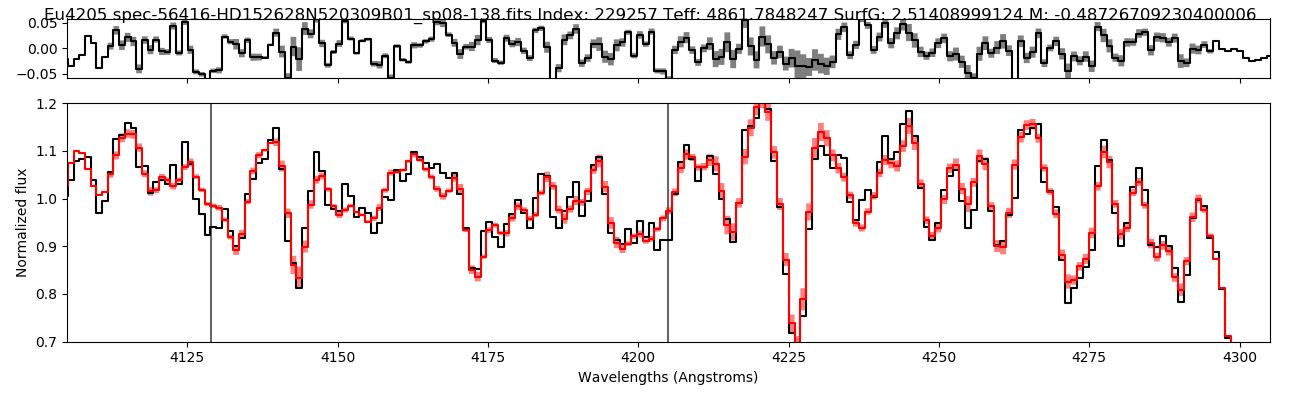
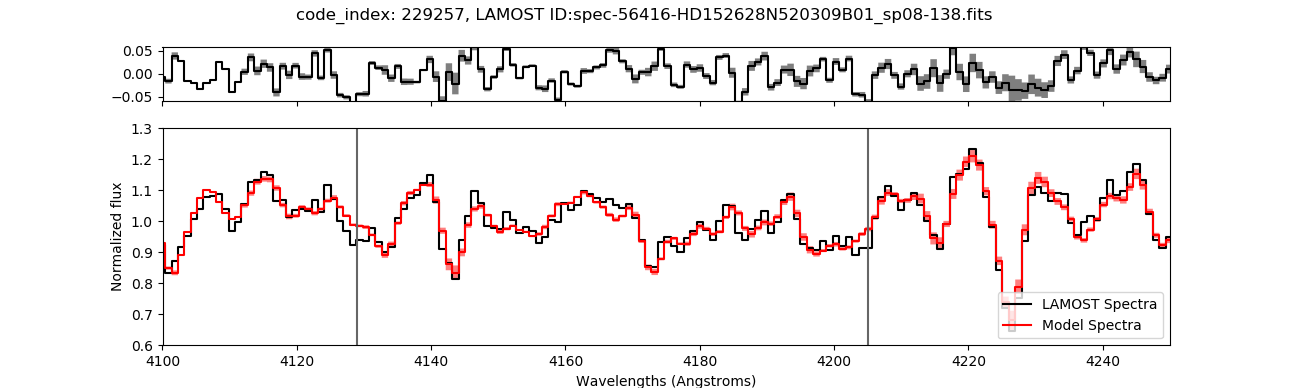
author comments WOO

diff --git a/article/ms.tex b/article/ms.tex
@@ -78,24 +78,24 @@
 	\section{Introduction}
 	
 	Heavy elements ($Z > 30$) are synthesised through the slow (s) and rapid (r) neutron capture processes \citep[e.g.,][]{Burbidge1957,Sneden2008}.
-	Rapid neutron capture occurs when the neutron density is high enough such that the rate of neutron capture will occur faster than the rate at which an isotope undergoes a $\beta$-decay. Extremely high neutron densities ($>$$10^{24}\ \rm{free\ neutrons\ per\ cm}^{3}$) are necessary for the r-process to occur \citep[e.g.,][]{Burbidge1957,Sneden2008}. Sites meeting this criteria include core-collapse supernovae, neutron-star mergers, or magnetorotationally driven supernovae. Core-collapse supernovae are believed to be relatively common throughout the history of the Milky Way, but they only produce small amounts of r-process material. Neutron-star mergers or magnetorotationally driven supernovae, however, occur much less frequently than core-collapse supernovae, but produce far more r-process material. Events such as these are theorised to account for the case of the highly r-process enhanced stars in the ultra-faint dwarf (UFD) galaxy Reticulum II \citep{Ji2016}.
-	Magnetorotationally driven supernovae may not produce as much r-process material as neutron-star mergers (although still more than core-collapse supernovae), are thought to occur more frequently than neutron-star mergers \citep[e.g.,][]{Li2011, LIGO2016}, but the predicted abundance patterns make them observationally indistinguishable from neutron-star mergers \citep{Ji2016}.
+	Rapid neutron capture occurs when the neutron density is high enough such that the rate of neutron capture will occur faster than the rate at which an isotope undergoes a $\beta$-decay. Extremely high neutron densities ($>$$10^{24}\ \rm{free\ neutrons\ per\ cm}^{3}$) are necessary for the r-process to occur. Sites meeting this criteria include core-collapse supernovae (especially those that are magnetorotationally driven), neutron-star mergers. Core-collapse supernovae are believed to be relatively common throughout the history of the Milky Way, but they only produce small amounts of r-process material. Neutron-star mergers or magnetorotationally driven supernovae, however, occur much less frequently than ordinary core-collapse supernovae, but produce far more r-process material. Events such as these are theorised to account for the case of the highly r-process enhanced stars in the ultra-faint dwarf (UFD) galaxy Reticulum II \citep{Ji2016}.
+	Magnetorotationally driven supernovae may not produce as much r-process material as neutron-star mergers (although still more than ordinary core-collapse supernovae), but are thought to occur more frequently than neutron-star mergers \citep[e.g.,][]{Li2011, LIGO2016}, and the predicted abundance patterns make them observationally indistinguishable from neutron-star mergers \citep{Ji2016}.
 	
-	Europium ($Z=63$) is entirely produced through the r-process. This makes it a very useful signature for identifying stars that show evidence of significant contribution by r-process material. Using europium as a tracer, \cite{Ji2016} found that the level of r-process enrichment in  Reticulum II was too high to have occurred through a core-collapse supernovae event.
-	Historically, UFD galaxies have demonstrated some of the lowest abundance ratios of r-process elements seen in the Milky Way or its satellite systems. However, the analysis of several of Reticulum II's stars show they are greatly enriched, 2-3 orders of magnitude higher than stars found in any other UFD galaxy \citep{Ji2016}. This degree of enrichment supports the theory that a single rare event must have occurred early on in the formation history of Reticulum II. This is supported by the observed heavy element yields, which are found to be some 1000 times higher than what is achievable on average from core-collapse supernovae ejecta. It is highly improbable that 1000 supernovae could have contributed to Reticulum II, suggesting that the r-process material must be produced by a rarer astrophysical event such as a binary neutron-star merger.
+	Europium ($Z=63$) is almost entirely produced through the r-process. This makes it a very useful signature for identifying stars that show evidence of a significant contribution from r-process material. Using europium as a tracer, \cite{Ji2016} found that the level of r-process enrichment in  Reticulum II was too high to have occurred through a single core-collapse supernovae event.
+	Historically, UFD galaxies have demonstrated some of the lowest abundance ratios of r-process elements with respect to Fe seen in the Milky Way or its satellite systems. However, the analysis of several of Reticulum II's stars show they are greatly enriched in r-process elements, 2-3 orders of magnitude higher than stars found in any other UFD galaxy \citep{Ji2016}. This degree of enrichment supports the theory that a single rare event must have occurred early on in the formation history of Reticulum II. This is supported by the observed heavy element yields, which are found to be some 1000 times higher than what is achievable on average from core-collapse supernovae ejecta. It is highly improbable that 1000 supernovae could have contributed to Reticulum II, suggesting that the r-process material must be produced by a rarer astrophysical event such as a binary neutron-star merger.
 	
-	While neutron-star mergers or magnetorotationally driven supernovae are likely to produce significant amounts of r-process material, it does not suggest that all r-process material stems from these sources either. Rather, the rarity of these events might imply that they are also responsible for the rare numbers of stars  observed to have significant enhancements in r-process material. One could ask if neutron-star mergers could be responsible for all r-process stars known in the Milky Way? On the other hand, if we assume very little gas mixing, could core-collapse supernovae create enough material to explain a single r-process star? If neither of these prove to be true then we can confirm that there must be multiple sties to the r-process, providing a step forward in understanding the relative fraction of these mechanisms in the Milky Way.
+	While neutron-star mergers or magnetorotationally driven supernovae are likely to produce significant amounts of r-process material, it does not suggest that all r-process material stems from these sources either. Rather, the rarity of these events might imply that they are also responsible for the rare numbers of stars  observed to have significant enhancements in r-process material. One could ask if neutron-star mergers could be responsible for all r-process stars known in the Milky Way? On the other hand, if we assume very little gas mixing, could core-collapse supernovae create enough material to explain a single r-process enriched star? If neither of these prove to be true then we can confirm that there must be multiple sites to the r-process, providing a step forward in understanding the relative fraction of these mechanisms in the Milky Way.
 	
 	In order to answer these questions it is necessary to identify a large sample of r-process stars.
-	However, r-process stars are very rare. For this reason we must look to massive data sets, such as the LAMOST sky survey. In this letter we report the discovery of 47 r-process enhanced stars identified from LAMOST, significantly building upon the previously known Milky Way sample of 14 \citep[e.g.,][]{masho2011,Honda2004,Hayek2009,Sneden2003,Ivans2006,Hill2002,Christlieb2004,Wako2010,placo2017}.
-	In Section 2 we outline the methods used to identify r-process enhanced candidates, and our analysis methods. In Section 3 we discuss what our results imply about the sites of r-process. We provide concluding remarks in Section 4.
+	However, r-process stars are very rare. For this reason we must look to massive data sets, such as the LAMOST sky survey. In this letter we report the discovery of 47 r-process enhanced stars identified from LAMOST, significantly building upon the previously known Milky Way sample of 26 \citep[e.g.,][]{masho2011,Honda2004,Hayek2009,Sneden2003,Ivans2006,Hill2002,Christlieb2004,Wako2010,placo2017,Sakari2018}.
+	In Section 2 we outline the methods used to identify r-process enhanced candidates, and our analysis methods. In Section 3 we discuss what our results imply about the sites of the r-process. We provide concluding remarks in Section 4.
 	
 	
-	\begin{figure}
-		\includegraphics[width=\columnwidth]{229257}
+	\begin{figure*}
+		\includegraphics[width=\textwidth]{229257}
 		\caption{The spectral region around two Europium absorption lines at 4129 and 4205 Angstroms. This particular star's spectra (black) shows clear absorption at these wavelengths, as compared to the data-driven model (red).}
 		\label{fig:starindex_229257}
-	\end{figure}
+	\end{figure*}
 	
 	\begin{figure}
 		\includegraphics[width=\columnwidth]{metalhistpython}
@@ -107,50 +107,50 @@
 	
 	\subsection{Observations and Candidate Selection}
 	
-	The LAMOST survey is a low resolution optical spectroscopic survey ($R\approx1800$; 3650-9000\,\AA). The second data release from LAMOST \citep{lamost} contains about 2.2 million stellar spectra in the northern sky. Of these 2.2 million, 454,180 were identified as giant stars through a data-driven analysis known as \textit{The Cannon}. An overlap sample of 9,952 giant stars common to LAMOST and the higher-resolution ($R\approx22500$) APOGEE survey \citep{apogee} were used as a training set.
-	The stellar labels included in \textit{The Cannon} model are stellar effective temperature $T_{\rm{eff}}$, surface gravity $\log{g}$, overall metallicity $\rm{[Fe/H]}$, and average relative abundance of elements produced via $\alpha$-particle capture $\rm{[\alpha/Fe]}$. For reference, typical uncertainties for these labels are about $70\,\rm{K}$ for $T_{\rm{eff}}$, $0.1$ in $\log{g}$, 0.1\,dex in $\rm{[Fe/H]}$, and 0.04\,dex in $\rm{[\alpha/Fe]}$.
+	The LAMOST survey is a low resolution optical spectroscopic survey ($R\approx1800$; 3650-9000\,\AA). The second data release from LAMOST \citep{lamost} contains about 2.2 million stellar spectra in the northern sky. Of these 2.2 million, 454,180 were identified as giant stars through a data-driven analysis known as \textit{The Cannon} \citep{AnnaHo2017}. An overlap sample of 9,952 giant stars common to LAMOST and the higher-resolution ($R\approx22500$) APOGEE survey \citep{apogee} were used as a training set.
+	The stellar labels included in \textit{The Cannon} model are stellar effective temperature $T_{\rm{eff}}$, surface gravity $\log{g}$, overall metallicity $\rm{[Fe/H]}$, average relative abundance of elements produced via $\alpha$-particle capture $\rm{[\alpha/Fe]}$, and K-band extinction $\rm{A_{k}}$. For reference, typical uncertainties for these labels are about $70\,\rm{K}$ for $T_{\rm{eff}}$, $0.1$ in $\log{g}$, 0.1\, in $\rm{[Fe/H]}$, and 0.04\, in $\rm{[\alpha/Fe]}$.
 	
-	We identified candidate r-process enhanced stars by searching for deviations surrounding between the pseudo-continuum-normalised flux and the best-fitting data-driven model spectrum. Specifically, we looked for deviations at the 4129\,\AA\ and 4205\,\AA\ europium absorption lines. At each transition we fitted a Gaussian profile to the flux residuals for all 454,180 giant stars. We recorded the amplitude, wavelength, and width of each profile, as well as the corresponding uncertainties on these quantities. 
+	We identified candidate r-process enhanced stars by searching for deviations between the pseudo-continuum-normalised flux and the best-fitting data-driven model spectrum. Specifically, we looked for deviations at the 4129\,\AA\ and 4205\,\AA\ europium absorption lines. At each transition we fitted a Gaussian profile to the flux residuals for all 454,180 giant stars. We recorded the amplitude, wavelength, and width of each profile, as well as the corresponding uncertainties on these quantities. 
 	Candidate r-process stars were identified as stars that met the following criteria:
 	
 	\begin{itemize}
-		\item The amplitude of the fitted gaussian profile must be less than ${A<-0.05}$;
+		\item The amplitude $\rm{A}$ of the fitted gaussian profile must be ${A<-0.05}$;
 		\item The signal to noise (S/N) must be greater than 30;
 		\item The deviation from the required wavelength in question must be less than 2\,\AA;
-		\item The reduced $\chi^{2}$ value must be less than 3, $\chi_r^{2}<3$.
+		\item The reduced $\chi_r^{2}$ value must be less than 3, $\chi_r^{2}<3$.
 		\item All of these conditions must be met for both 4129\,\AA\ and 4205\,\AA\ for us to consider them sufficiently Eu enhanced.
 	\end{itemize}   
 	
-	These filters produced an initial sample of 62 candidates from the total sample of 454,180. An example candidate is shown in Figure \ref{fig:starindex_423451}. We visually scrutinised each candidate to remove false positives, typically due to data reduction artefacts. After this process we were left with 47 likely r-process enhanced candidates, 22 of which stand out as very strong candidates.
+	These filters produced an initial sample of 62 candidates from the total sample of 454,180. An example candidate is shown in Figure \ref{fig:starindex_229257}. We visually scrutinised each candidate to remove false positives, typically due to data reduction artefacts. After this process we were left with 47 likely r-process enhanced candidates, 22 of which stand out as very strong candidates. In addition to this we searched these stars for enhancements of a similar degree in the s-process created elements Strontium and Barium and found none. 
 	
 	\section{Identifying the r-process}
 	
 	\subsection{Selection effects}
-	The LAMOST giants we analyse belong to a broad range of metallicity ($-1.6 < \rm{[Fe/H]} < 0.6$), and don't cluster in any part of the sky, suggesting they do not belong to a single stellar system. The lowest metallicity among the 454,180 giant stars in our sample is $[{\rm Fe/H}] \approx -2.1$. The previous sample of known r-process stars, before this work, exclusively consists of very metal-poor stars with $[{\rm Fe/H}] < -2$ \citep{Barklem2005}. This fact is not to be confused with saying that most r-process stars found should be metal-poor stars, rather that at extremely low metallicities of $[{\rm Fe/H}] \lesssim -2.6$ \citep{Simmerer2004} there is a negligible contribution from the s-process
+	The LAMOST giants we analyse belong to a broad range of metallicity ($-1.6 < \rm{[Fe/H]} < 0.6$), and don't cluster in any part of the sky, suggesting they do not belong to a single stellar system. The lowest metallicity among the 454,180 giant stars in our sample is $[{\rm Fe/H}] \approx -2.1$. The previous sample of known r-process stars, before this work, exclusively consists of very metal-poor stars with $[{\rm Fe/H}] < -1.5$ \citep{Barklem2005}. This fact is not to be confused with saying that most r-process stars found should be metal-poor stars, rather that at extremely low metallicities of $[{\rm Fe/H}] \lesssim -2.6$ \citep{Simmerer2004} there is a negligible contribution from the s-process
 	and all neutron-capture elements must be formed from the r-process. In other words, the primary reason why all r-process enhanced stars have $[{\rm Fe/H}] < -2$ is simply because searches for r-process stars have primarily focussed in the low metallicity regime.
 	
 	
 	%Over half the current known r-process stars are members of the ultra faint dwarf galaxy, Reticulum II. %However, europium we know to be totally made from the r-process, therefore even at metallicities where the s-process contributes, Europium is a valuable indicator of r-process synthesis.
 	
 	\subsection{Multiple r-process sites?}
-	While it is possible that all known r-process enhanced stars could be made by neutron-star mergers (we show this in Section \ref{rates}), we also observe stellar populations in the galaxy which show particularly weak enrichment from r-process elements ($[{\rm Eu/Fe}] < 0.7$). These enhancements imply either that there is more than one active r-process site, or that there is a very heterogeneous level of gas mixing, such that neutron-star mergers are able to enhance stars with [Eu/Fe] abundances that range many orders of magnitude.
+	While it is possible that all known r-process enhanced stars could be made by neutron-star mergers (we show this in Section \ref{rates}), we also observe stellar populations in the galaxy which show relatively weak enrichment from r-process elements ($[{\rm Eu/Fe}] < 0.7$). These enhancements imply either that there is more than one active r-process site, or that there is a very heterogeneous level of gas mixing, such that neutron-star mergers are able to enhance stars with [Eu/Fe] abundances that cover  many orders of magnitude.
 	
 	\subsection{Core-collapse supernovae}
-	Core-collapse supernova are one of the sites initially proposed to have a high enough neutron density to create elements synthesised by the r-process \citep{Burbidge1957}. Currently, the exact  mechanism that allows material with a high enough neutron density in order to produce  r-process material is unknown.
+	Core-collapse supernova are one of the sites initially proposed to have a high enough neutron density to create elements synthesised by the r-process \citep{Burbidge1957}. Currently, the exact  mechanism that creates material with a high enough neutron density to synthesise r-process material is unknown.
 %	As of yet our knowledge is incomplete on the exact mechanism that allows material with a high enough neutron density to escape the supernovae event.
 	One possible mechanism is the action of high-entropy neutrino winds being released from a proto-neutron-star during core-collapse. In this stage of the collapse, this neutrino wind is driving mass loss and could be instrumental in the expulsion of the r-process material in supernovae conditions. However, how much enhanced material is released from the event depends heavily on the amount of material that is allowed to fall back onto the remnant at the arrival of the reverse shock, and so often the supernovae may not release a considerable amount of material \citep{Woosley1992, Burrows1995}. 
 	
-	Regardless of the exact mechanism, core-collapse supernovae seem to release $M_{\rm{Eu}}\approx10^{-7.5} M_{\odot}$ per event \citep{Argast2004}. While this may not be a particularly significant mass of europium, core-collapse supernovae occur reasonably frequently \citep[44,700$\,\ \rm{Gpc}^{-3} \rm{yr^{-1}}$;][]{Li2011}, and so it isn't unreasonable to suggest that, with very little mixing occurring, that much if not all r-process material could have been formed by these and recycled in the stars we present in this letter.
+	Regardless of the exact mechanism, core-collapse supernovae seem to release $M_{\rm{Eu}}\approx10^{-7.5} M_{\odot}$ per event \citep{Argast2004}. While this may not be a particularly significant mass of europium, core-collapse supernovae occur reasonably frequently \citep[44,700$\,\ \rm{Gpc}^{-3} \rm{yr^{-1}}$;][]{Li2011}, and so with little mixing core-collapse supernovae are a candidate as the progenitor for some r-process enhancements under the conditions listed, but it can not be the sole source.
 	
 	\subsection{Neutron-star mergers}
 	\label{NSmerg}
-	Neutron-star mergers are another possible site of r-process element nucleosynthesis \citep{Kasen2017,Hotok2013,Drout2017}. They satisfy the conditions necessary to create a high neutron density by means of interacting tidal forces between the stars, neutron dense material is accreted off the stars, allowing r-process element synthesis to occur. This specific process produces considerably more enriched material than core-collapse supernovae ($M_{\rm{Eu}}\approx10^{-4.5} M_{\odot}$) \citep{Goriely2011}. However, the direct interaction and merger of a binary neutron-star pair occurs very infrequently, with currently only one direct observation, and with a frequency estimate of 1,000$\,\rm{Gpc^{-3}yr^{-1}}$ \citep{LIGO2016}. The significant amount of material that these mergers release can compensate for their low frequency and so, synonymous with core-collapse supernovae, it is not unreasonable to suggest that they are responsible for most if not all known r-process material. 
+	Neutron-star mergers are another possible site of r-process element nucleosynthesis \citep{Kasen2017,Hotok2013,Drout2017}. They satisfy the conditions necessary to create a high neutron density by means of interacting tidal forces between the stars, neutron dense material is accreted off the stars, allowing r-process element synthesis to occur. This specific process produces considerably more enriched material than core-collapse supernovae ($M_{\rm{Eu}}\approx10^{-4.5} M_{\odot}$) \citep{Goriely2011}, consistent with observed ejecta \citep{Kasliwal2017}. However, the direct interaction and merger of a binary neutron-star pair occurs very infrequently, with currently only one direct observation, and with a most plausible frequency estimate of 1,000$\,\rm{Gpc^{-3}yr^{-1}}$ \citep{LIGO2016,Abadie2010} well within the the outer estimates of $320 and 4780\ \rm{Gpc^{-3}yr^{-1}}$. The significant amount of material that these mergers release can compensate for their low frequency and so it could be that they are responsible for most if not all r-process enhancements observed.
 
 	The recent discovery of the UFD Reticulum II \citep{Ji2016} is evidence against the case of a single r-process site. Of nine stars observed in Reticulum II, 7 of them were shown to be highly enriched in r-process elements ($\rm{[Eu/Fe]\approx1.7}$) which suggests a single prolific event having occurred in close proximity to the galaxy early in it's formation, such as a neutron-star merger. However, two of the stars observed were only weakly enhanced in r-process elements which suggests that there must have been a second, less efficient, form of r-process enhancement present.
 	
 	\subsection{The rates of r-process events and what they imply}
 	\label{rates}
-	From the recent advanced LIGO data \citep{LIGO2016}, we are able to find an estimate for a plausible frequency at which neutron-star mergers occur, as mentioned in Section \ref{NSmerg}. Reliable estimates of core-collapse supernovae are also available \citep{Li2011}. From these two rates we can estimate the amount of r-process enhanced giants that should be present in the Milky Way, either enhanced solely by purely neutron-star mergers, or purely by core-collapse supernovae. As well as an estimate of how many r-process enhanced stars, giants or dwarfs, that are expected to be present in the Milky Way. We assuming instant recycling, and that no r-process matter pollutes stars by any other means than these two mechanisms. In these calculations a star is deemed to be 'enhanced' where $[{\rm Eu/Fe}] \geq 0.7$.
+	From the recent advanced LIGO data \citep{LIGO2016}, we are able to find an estimate for a plausible frequency at which neutron-star mergers occur, as mentioned in Section \ref{NSmerg}. Reliable estimates of core-collapse supernovae are also available \citep{Li2011}. From these two rates we can estimate the amount of r-process enhanced giants that should be present in the Milky Way, either enhanced solely by purely neutron-star mergers, or purely by core-collapse supernovae. As well as an estimate of how many r-process enhanced stars, giants or dwarfs, that are expected to be present in the Milky Way. We assume instant recycling, and that no r-process matter pollutes stars by any other means than these two mechanisms. In these calculations a star is deemed to be 'enhanced' where $[{\rm Eu/Fe}] \geq 0.7$.
 	
 	Taking the mass of europium ejected from a neutron-star merger as $M_{\rm Eu}\approx10^{-4.5}\,M_{\odot}$, we can calculate a density of Europium $\rho_{\rm Eu}$,
 \begin{equation}
@@ -162,37 +162,37 @@
 	
 	The total known mass of Europium exhibited in these 47 stars was then calculated:
 	\begin{equation}
-	Eu_{\rm{Mass}} = 47*Eu_{\textrm{Atomic\,\,mass}}*N_{\textrm{Eu}}
+	M_{\rm{Eu}} = 47*A_{\textrm{Eu}}*N_{\textrm{Eu}}
 	\end{equation}
 	Where:
 	\begin{equation}
-	Eu_{\rm{Atomic\ mass}} = 2.52342^{-25}  \quad\textrm{and}
+	Eu_{\rm{Atomic\ mass}} = 2.52342^{-25}
 	\end{equation}
 	\begin{equation}
 	N_{\rm{Eu\ atoms}} = 10^{[Eu/H]-12} \times N_{\rm{Hydrogen\ atoms}}
 	\end{equation}
-	The number of Hydrogen atoms was approximated from the Hydrogen atomic mass, and the assumption was made that a giant star will be composed of $\approx$75\% Hydrogen and each star possesses an average mass of $\approx 0.8\ M_{\odot}$. These assumption mean that a Europium mass of $9.3 \times 10^{20}$ kilograms is required to be present in the star for it to be deemed 'enhanced'.
+	The number of Hydrogen atoms was approximated from the Hydrogen atomic mass, and the assumption was made that a giant star will be composed of $\approx$75\% Hydrogen and each star possesses an average mass of $\approx 0.8\ M_{\odot}$. [Eu/H] was found under the assumption the star would exhibit a [Eu/Fe] = 0.7, and using the [Fe/H] given in Table 1. These assumption mean that a Europium mass of $9.3 \times 10^{20}$ kilograms is required to be present in the star for it to be deemed 'enhanced'.
 	
-    It was found that in the Milky Way there should be present 13,060 r-process stars enhanced solely from neutron-star mergers. Taking into account that this should be considered a lower-bound estimate (by assuming a lower bound Europium abundance) this is a startlingly large difference from the known 61 r-process stars in the Milky Way.
+    It was found that in the Milky Way there should be present 13,060 r-process stars enhanced solely from neutron-star mergers. Taking into account that this should be considered a upper-bound estimate this is still a startlingly large difference from the known 73 r-process stars in the Milky Way.
     
-    In preparing these calculations we assumed a constant star formation rate of 2 M$_\odot {\rm yr}^{-1}$ in the disk of the Milky Way, with a typical IMF and giant star birth rate of approximately 0.3 stars per year. Therefore if we assume a steady-state system, the number of red giant stars in the Milky Way comes to approximately $7.53\times10^7$. This allows us to find the fraction of the Milky Ways giants that our sample of r-process stars represents. Multiplying this fraction by the 13,060 stars that should be present in the Milky Way, we expect to be present 79 enhanced stars in LAMOST DR2, a number consistent with the 61 we now know of.
+    In preparing these calculations we assumed a constant star formation rate of 2 M$_\odot {\rm yr}^{-1}$ in the disk of the Milky Way, with a typical IMF and giant star birth rate of approximately 0.3 stars per year. Therefore if we assume a steady-state system, the number of red giant stars in the Milky Way comes to approximately $7.53\times10^7$. This allows us to find the fraction of the Milky Ways giants that our sample of r-process stars represents. Multiplying this fraction by the 13,060 stars that should be present in the Milky Way, we expect to be present 79 enhanced stars in LAMOST DR2, a number consistent with the 73 we now know of.
     
     %Scaling down from the 250 billion stars in the Milky Way to our sample size of $\approx450000$ giants, the amount of enhanced stars we expect to find comes to less than one (0.0178). If we are to extend our sample from the 450000 giants, and instead use the entire LAMOST data release 2 (a survey of $\approx2.2$ million stars), we predict that we should still have found less than a single star (0.087) enhanced in r-process elements. While again this should be considered a lower bound, it is nonetheless a startling difference from the 47 that were found.
     
-    We can do a similar calculation with our rate of core-collapse supernovae. Taking the same assumptions with minimal mixing, as well as both the ejecta ($M_{Eu}\approx10^{-4.5} M_{\odot}$) and rate ($44700\ \rm{Gpc}^{-3} \rm{yr^{-1}}$) previously discussed, we find that in the Milky Way there should be present 590 r-process enhanced stars made solely from core-collapse supernovae. Applying the same method as utilised in the neutron-star merger calculations, we expect there to be present only 4 r-process enhanced stars in LAMOST DR2 enhanced entirely by core-collapse supernovae.
+    We can do a similar calculation with our rate of core-collapse supernovae. Taking the same assumptions with minimal mixing, as well as both the ejecta ($M_{Eu}\approx10^{-7.5} M_{\odot}$) and rate ($44700\ \rm{Gpc}^{-3} \rm{yr^{-1}}$) previously discussed, we find that in the Milky Way there should be present 584 r-process enhanced stars made solely from core-collapse supernovae. Applying the same method as utilised in the neutron-star merger calculations, we expect there to be present only 4 r-process enhanced stars in LAMOST DR2 enhanced entirely by core-collapse supernovae.
     
     %Were we to scale this down to our sample size of $\approx450000$ giants we arrive at a figure of $8.0\times10^{-4}$ stars that should have been observed. Scaling again to the full LAMOST sample we would then expect to find $3.9\times10^{-3}$ enhanced stars. 
     
     From these estimates we find an approximation for whether or not either neutron-star mergers or core-collapse supernovae by themselves are sufficient to enrich our entire r-process enhanced catalogue. 
     
-    By using the assumptions listed, neutron-star mergers could create enough r-process material to enrich above the point of [Eu/Fe] > 0.7 for the 47 known r-process enhanced stars within the LAMOST sample within $10.9\times10^{9}$ years, very close to the age of the universe. From our rates of core-collapse supernovae however, we find that the earliest time-scale at which they can create this level of r-process material is $2.4\times10^{11}$ years, orders of magnitude longer than the age of the universe. This illustrates, with our current knowledge of core-collapse supernovae frequency, and the amount of r-process material they eject, that core-collapse supernovae cannot be the sole source of r-process enrichment in the Milky Way.
+    Following from the assumptions listed and calculations above, neutron-star mergers could create enough r-process material to enrich above the point of [Eu/Fe] > 0.7 for the 47 known r-process enhanced stars within the LAMOST sample within $10.9\times10^{9}$ years, very close to the age of the universe. From our rates of core-collapse supernovae however, we find that the earliest time-scale at which they can create this level of r-process material is $2.4\times10^{11}$ years, orders of magnitude longer than the age of the universe. This illustrates, with our current knowledge of core-collapse supernovae frequency, and the amount of r-process material they eject, that core-collapse supernovae cannot be the sole source of r-process enrichment in the Milky Way.
     
-    This is reinforced by the r-process enhanced stars found in the LAMOST sample. Our 47 stars represent almost 10\% of all enhanced stars present in the Milky Way if core-collapse supernovae is considered to be the singular source of r-process enhanced stars. However, the LAMOST data release 2 only surveyed a small fraction of the Milky Way. It is highly unlikely that close to 10\% of the entire r-process enhanced population of the Milky Way exists within our stellar sample, it is then concluded that core-collapse supernovae can not be the only source of r-process material. 
+    This is reinforced by the r-process enhanced stars found in the LAMOST sample. Our 47 stars represent almost 10\% of all r-process enhanced stars present in the Milky Way if core-collapse supernovae is considered to be the singular source of r-process enhanced stars. However, the LAMOST data release 2 only surveyed a small fraction of the Milky Way. It is highly unlikely that close to 10\% of the entire r-process enhanced population of the Milky Way exists within our stellar sample. It is then concluded that core-collapse supernovae can not be the only source of r-process material. 
     
     In an effort to confirm these numbers, we approached the calculation from a different direction. Were we to take our sample of 47 giants found in the LAMOST data, and increase it to the full estimated amount of giants in the galaxy, then we would expect to find about 7,849 r-process enhanced giant stars, very close to the 13,060 stars from the previous calculation.
 	
 	\section{Conclusions}
-	We present the largest to date sample of r-process element enhanced stars to date. Our sample is found at a wide range of metallicities, contrary to previous discoveries that focussed on metal-poor r-process enhanced stars. These 47 stars represent the first r-process enhanced stars found at [Fe/H] $>-2$. The sample is not grouped in effective temperatures, surface gravity, or radial velocity, and are not clustered in any  particular location on the sky. We present the first estimate, to our knowledge, that neutron-star mergers could be synthesise all r-process material in the known r-process enhanced stars within the age of the universe. We also provide evidence to confidently conclude core-collapse supernovae can not possibly be the only progenitors of r-process material in the Milky Way Galaxy.
+	We present the largest sample of r-process element enhanced stars to date. Our sample is found to cover a wide range of metallicities, contrary to previous discoveries that focussed on metal-poor r-process enhanced stars. These 47 stars represent the first r-process enhanced stars found at [Fe/H] $>-2$. The sample is not grouped in effective temperatures, surface gravity, or radial velocity, and are not clustered in any  particular location on the sky. We present the first estimate, to our knowledge, that neutron-star mergers could synthesise all r-process material in the known r-process enhanced stars within the age of the universe. We also provide evidence to confidently conclude core-collapse supernovae can not possibly be the only progenitors of r-process material in the Milky Way Galaxy.
 	
 	We recommend follow-up high resolution spectra be obtained for each of the 47 stars to ascertain how enhanced they are. To find the origin of these stars and to show whether or not they may come from a similar progenitor site it is necessary to find orbits for them.
 	
@@ -202,58 +202,63 @@
 	\bibliographystyle{mnras}
 	%\bibliography{paper} % if your bibtex file is called example.bib
 	\begin{thebibliography}{99}
-		\bibitem[\protect\citeauthoryear{Abbott, B.P. et al.}{2016}]{LIGO2016}
+		\bibitem[\protect\citeauthoryear{Abadie et al.}{2010}]{Abadie2010}
+		Abadie J. et al. 2010, Classical and Quantum Gravity, 27, 17
+		\bibitem[\protect\citeauthoryear{Abbott et al.}{2016}]{LIGO2016}
 		Abbot B.P. et al. 2016, Living Reviews in Relativity, 19, 1
-		\bibitem[\protect\citeauthoryear{Argast, D. et al.}{2004}]{Argast2004}
+		\bibitem[\protect\citeauthoryear{Argast et al.}{2004}]{Argast2004}
 		Argast D., Samland M., Thielmann F-K. \& Qian Y-Z. 2004, Astronomy and Astrophysics, 416
-		\bibitem[\protect\citeauthoryear{Barklem, P.S. et al.}{2005}]{Barklem2005}
+		\bibitem[\protect\citeauthoryear{Barklem et al.}{2005}]{Barklem2005}
 		Barklem, P.S., Christlieb, N., Beers, T.C., Hill, V., Besel, M.S., Holmberg, J., Marsteller, B., Rossi, S., Zickgraf, F.-J. \& Reimers, D. 2005, A\&A, 439, 1
-		\bibitem[\protect\citeauthoryear{Burbidge, E. et al.}{1957}]{Burbidge1957}
+		\bibitem[\protect\citeauthoryear{Burbidge et al.}{1957}]{Burbidge1957}
 		Burbidge E. M., Burbidge G. R., Fowler W. A., \& Hoyle F. 1957, Review of Modern Physics, 29, 4
-		\bibitem[\protect\citeauthoryear{Burrows, A. et al.}{1995}]{Burrows1995}
+		\bibitem[\protect\citeauthoryear{Burrows et al.}{1995}]{Burrows1995}
 		Burrows, A., Hayes, J., \& Fryxell, Bruce A. 1992, ApJ, 450, 830
-		\bibitem[\protect\citeauthoryear{Cui, X.-Q. et al.}{2012}]{lamost}
+		\bibitem[\protect\citeauthoryear{Cui et al.}{2012}]{lamost}
 		Cui, X.-Q. et al., Research in Astronomy and Astrophysics, 12, 9
-		\bibitem[\protect\citeauthoryear{Drout, M. R. et al.}{2017}]{Drout2017}
+		\bibitem[\protect\citeauthoryear{Drout et al.}{2017}]{Drout2017}
 		Drout, M. R. et al. 2017, Science
-		\bibitem[\protect\citeauthoryear{Christlieb N. et al.}{2004}]{Christlieb2004}
+		\bibitem[\protect\citeauthoryear{Christlieb et al.}{2004}]{Christlieb2004}
 		Christlieb N. et al. 2004, Astronomy \& Astrophysics, 428, 1
-		\bibitem[\protect\citeauthoryear{Goriely, S. et al.}{2011}]{Goriely2011}
+		\bibitem[\protect\citeauthoryear{Goriely et al.}{2011}]{Goriely2011}
 		Goriely S., Bauswein A. \& Janka H-T. 2011, , 738, L32
-		\bibitem[\protect\citeauthoryear{Hayek, W. et al.}{2009}]{Hayek2009}
+		\bibitem[\protect\citeauthoryear{Hayek et al.}{2009}]{Hayek2009}
 		Hayek W., Wiesendahl U., Christlieb N., Eriksson K., Barklem P. S., Hill V., Beers T. C., Farouqi K., Pfeiffer B.,\& Kratz K.-L. 2009, Astronomy and Astrophysics, 504, 1
-		\bibitem[\protect\citeauthoryear{Hill, V. et al.}{2002}]{Hill2002}
+		\bibitem[\protect\citeauthoryear{Hill et al.}{2002}]{Hill2002}
 		Hill V. et al. Astronomy \& Astrophysics, 387, 1
 		\bibitem[\protect\citeauthoryear{Ho et al.}{2017}]{AnnaHo2017}
 		Ho A. Y. Q., Ness M. K., Hogg D. W., Rix H-W., Liu C., Yang F., Zhang Y., Hou Y.,\& Wang Y. 2017, ApJ, 836, 1
-		\bibitem[\protect\citeauthoryear{Honda S. et al.}{2004}]{Honda2004}
+		\bibitem[\protect\citeauthoryear{Honda et al.}{2004}]{Honda2004}
 		Honda S., Aoki W., Kajino T., Ando H., Beers T. C., Izumiura H., Sadakane K. \& Takada-Hidai M. 2004, ApJ, 607, 1
-		\bibitem[\protect\citeauthoryear{Hotokezaka, K. et al.}{2013}]{Hotok2013}
+		\bibitem[\protect\citeauthoryear{Hotokezaka et al.}{2013}]{Hotok2013}
 		Hotokezaka K., Kiuchi K., Kyutoku K., Okawa H., Skiguchi Y., Shibata M., \& Taniguchi K. 2013, APS
-		\bibitem[\protect\citeauthoryear{Ivans, I. I. et al.}{2006}]{Ivans2006}
+		\bibitem[\protect\citeauthoryear{Ivans et al.}{2006}]{Ivans2006}
 		Ivans I. I.,Simmerer J., Sneden C., Lawler J. E., Cowan J. J., Gallino R., \& Bisterzo S. 2006, ApJ, 645, 1
-		\bibitem[\protect\citeauthoryear{Ji, A. P. et al.}{2016}]{Ji2016}
+		\bibitem[\protect\citeauthoryear{Ji et al.}{2016}]{Ji2016}
 		Ji A. P., Frebel A., Chiti A., \& Simon J. D. 2016, Nature, 531
-		\bibitem[\protect\citeauthoryear{Kasen, D. et al.}{2017}]{Kasen2017}
+		\bibitem[\protect\citeauthoryear{Kasen et al.}{2017}]{Kasen2017}
 		Kasen D., Metzger B., Barnes J., Quataert E., \& Ramirez-Ruiz E. 2017, Nature, 551, 7678
-		\bibitem[\protect\citeauthoryear{Lai, D. K. et al.}{2008}]{Lai2008}
+		\bibitem[\protect\citeauthoryear{Kasliwal et al.}{2017}]{Kasliwal2017}
+		Kasliwal M. M., et al. 2017, Science,
+		\bibitem[\protect\citeauthoryear{Lai et al.}{2008}]{Lai2008}
 		Lai D. K., Bolte M., Johnson J. A., Lucatello S., Heger A., \& Woosley S. E. 2008, ApJ, 681,
-		\bibitem[\protect\citeauthoryear{Li, W. et al.}{2011}]{Li2011}
+		\bibitem[\protect\citeauthoryear{Li et al.}{2011}]{Li2011}
 		Li W., Chornock R., Leaman J., Filippenko A. V., Poznanski D., Wang X., Ganshalingam M., \& Mannucci F. 2011, Royal Astronomical Society, 412, 1473
-		\bibitem[\protect\citeauthoryear{Majewski, S.R., et al.}{2017}]{apogee}
+		\bibitem[\protect\citeauthoryear{Majewski et al.}{2017}]{apogee}
 		Majewski S.R., et al., The Astronomical Journal, 154, 3
-		\bibitem[\protect\citeauthoryear{Mashonkina, L., et al.}{2010}]{masho2011}
+		\bibitem[\protect\citeauthoryear{Mashonkina et al.}{2010}]{masho2011}
 		Mashonkina L., Christlieb N., Barklem P.S., Hill V., Beers T.C., \& Velichko A., Astronomy and Astrophysics, 516, 46
-		\bibitem[\protect\citeauthoryear{Placco, V.M., et al.}{2017}]{placo2017}
+		\bibitem[\protect\citeauthoryear{Placco et al.}{2017}]{placo2017}
 		Placco V.M., Holmbeck E. M., Frebel A., Beers T. C., Surman R. A., Ji A. P., Ezzeddine R., Points S. D., Kaleida C. C. Hansen T. T., Sakari C. M, \& Casey A. R., ApJ, 844, 1
-		\bibitem[Simmerer et al.(2004)]{Simmerer2004} Simmerer, J., Sneden, C., Cowan, J.~J., et al.\ 2004, \apj, 617, 1091 
-		\bibitem[\protect\citeauthoryear{Sneden, C. et al.}{2008}]{Sneden2008}
+		\bibitem[\protect\citeauthoryear{Simmerer et al.}{2004}]{Simmerer2004} Simmerer, J., Sneden, C., Cowan, J.~J., et al.\ 2004, \apj, 617, 1091 
+		\bibitem[\protect\citeauthoryear{Sakari et al.}{2018}]{Sakari2018} Sakari C.M., et al. 2004, \apj, 854, 2
+		\bibitem[\protect\citeauthoryear{Sneden et al.}{2008}]{Sneden2008}
 		Sneden C., Cowan J.J., \& Gallino R. 2008, Annual review of Astronomy \& Astrophysics, 46, 1
-		\bibitem[\protect\citeauthoryear{Sneden, C. et al.}{2003}]{Sneden2003}
+		\bibitem[\protect\citeauthoryear{Sneden  et al.}{2003}]{Sneden2003}
 		Sneden C. et al. 2003, ApJ, 591, 2
-		\bibitem[\protect\citeauthoryear{Wako, A. et al.}{2010}]{Wako2010}
+		\bibitem[\protect\citeauthoryear{Wako  et al.}{2010}]{Wako2010}
 		Wako A., Beers T. C., Honda S. \& Carollo D. 2010, ApJ, 723, 1
-		\bibitem[\protect\citeauthoryear{Woosley, S.E. et al.}{1992}]{Woosley1992}
+		\bibitem[\protect\citeauthoryear{Woosley  et al.}{1992}]{Woosley1992}
 		Woosley S.E, \& Hoffman R.D. 1992, ApJ, 395, 1
 	\end{thebibliography}
 	
